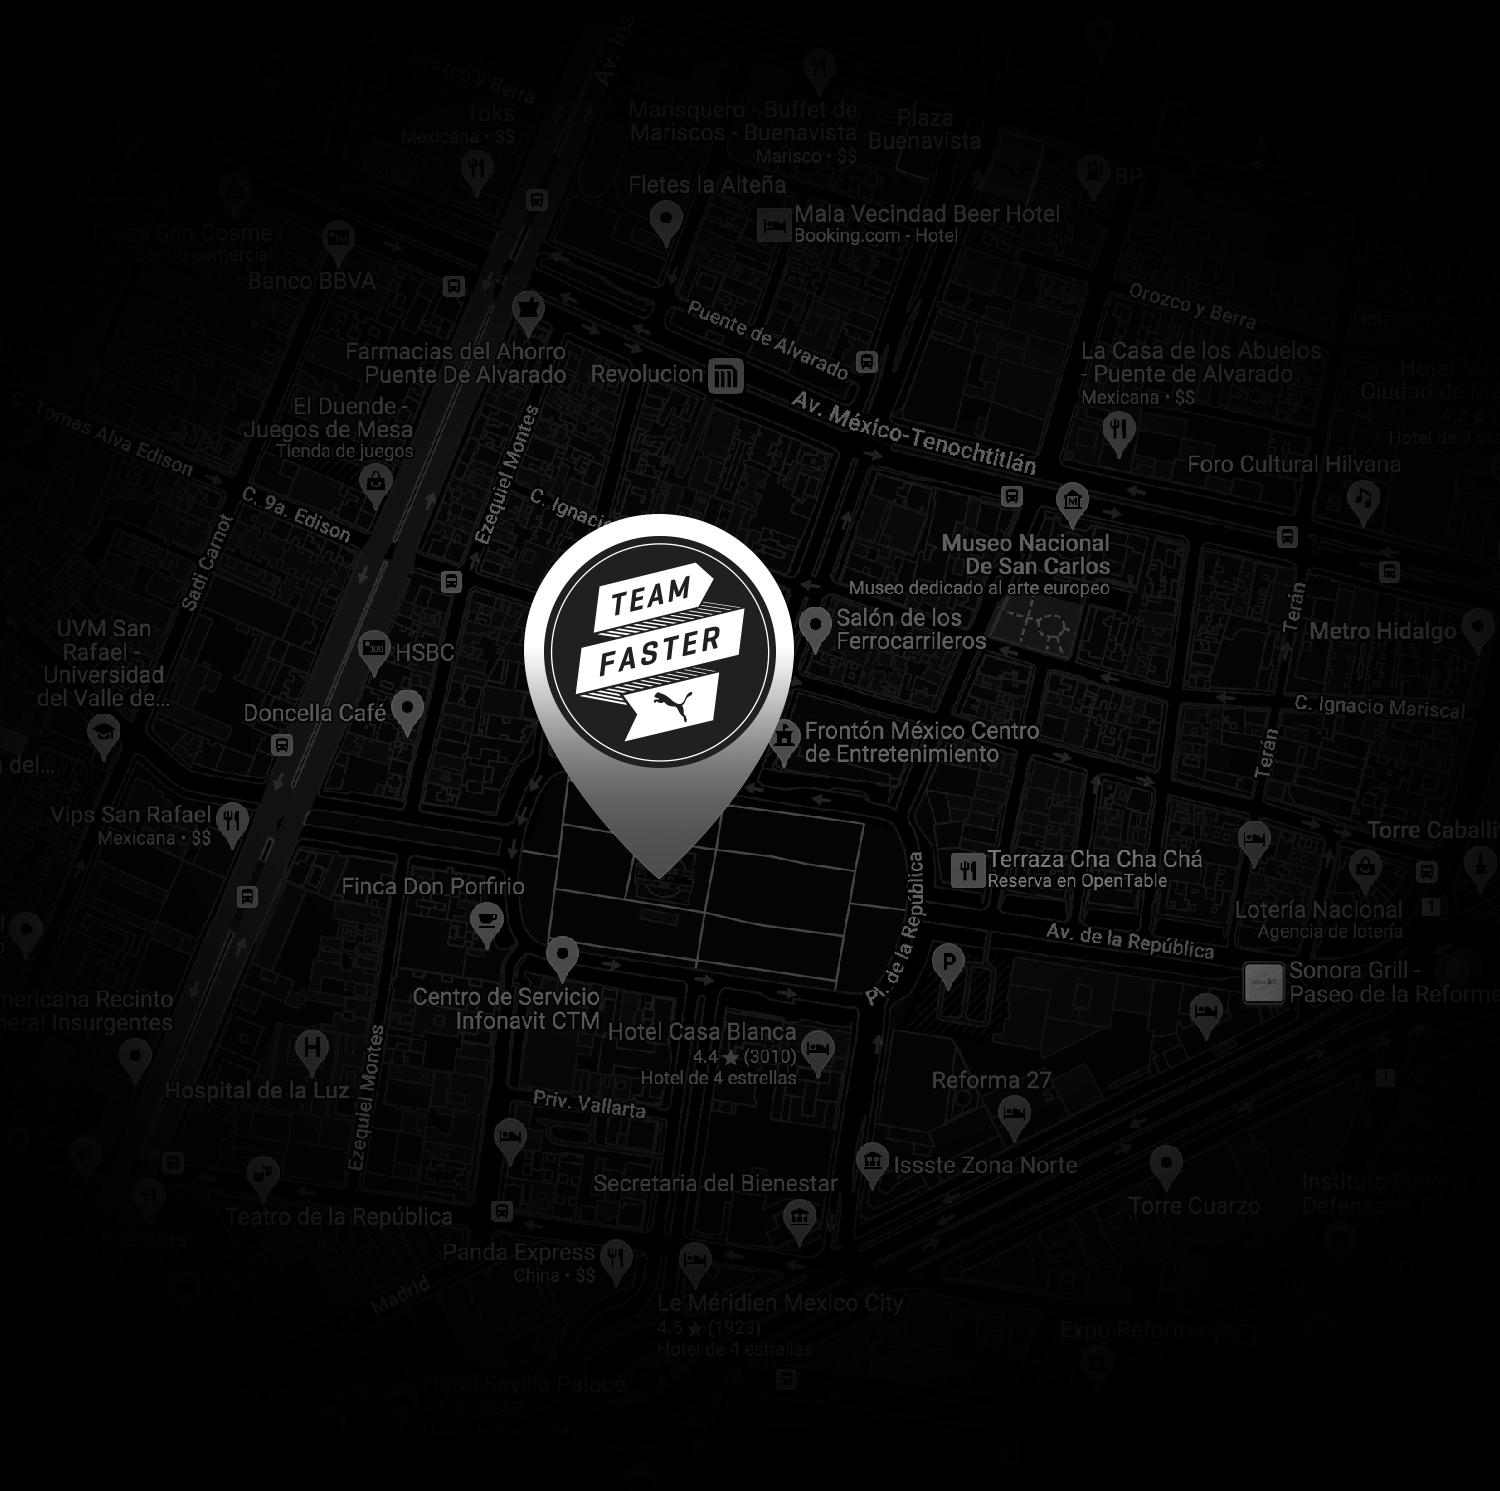
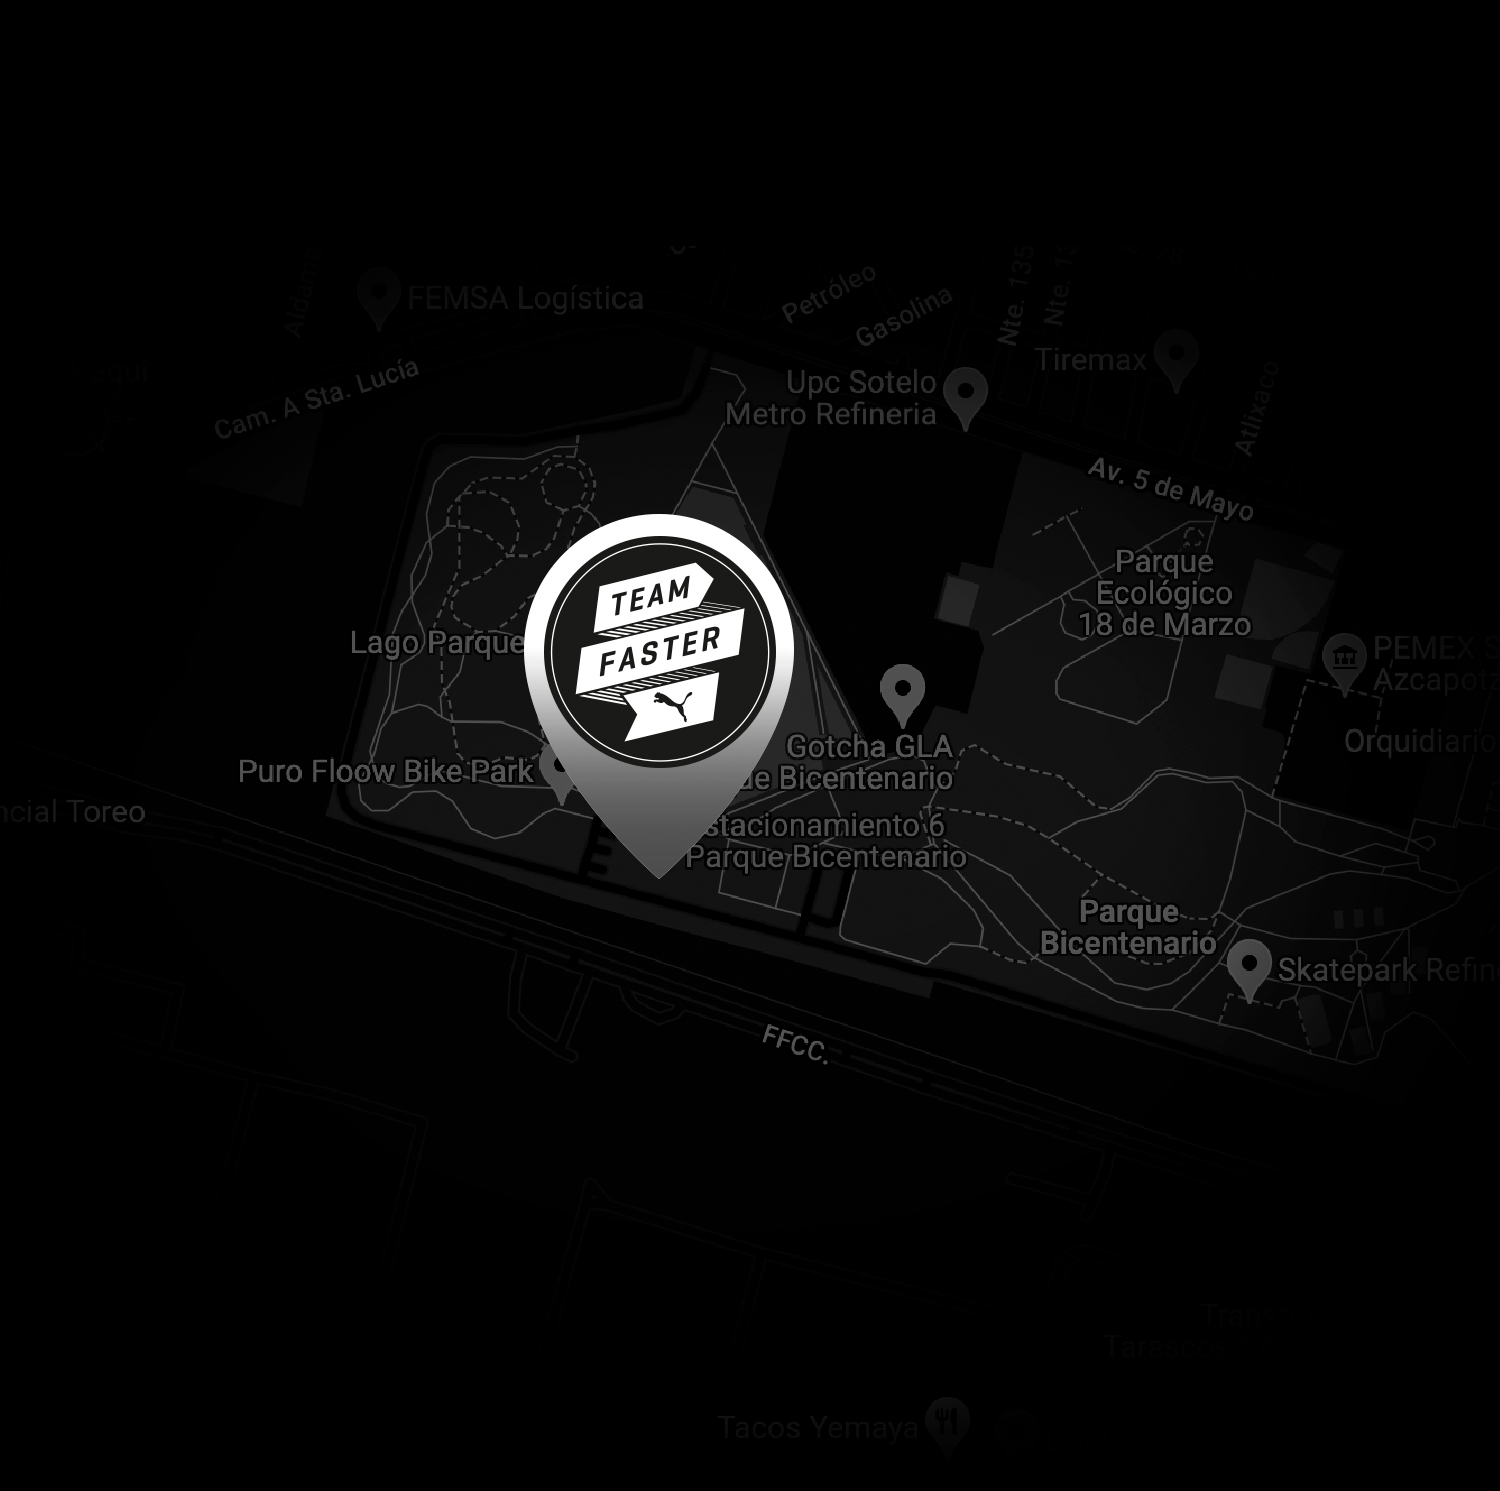
new venue

diff --git a/public/js/resources_js_Pages_Venues_vue.js b/public/js/resources_js_Pages_Venues_vue.js
@@ -68,7 +68,7 @@ __webpack_require__.r(__webpack_exports__);
 /* harmony default export */ const __WEBPACK_DEFAULT_EXPORT__ = ({
   name: 'footer',
   mounted: function mounted() {
-    console.log("v=1.1.27");
+    console.log("v=1.1.28");
   }
 });
 
@@ -226,7 +226,7 @@ __webpack_require__.r(__webpack_exports__);
   mounted: function mounted() {
     var _this = this;
 
-    console.log("v=1.1.27");
+    console.log("v=1.1.28");
     window.scrollTo(0, 0);
     axios.get('api/venues').then(function (_ref) {
       var data = _ref.data;
@@ -235,7 +235,7 @@ __webpack_require__.r(__webpack_exports__);
   },
   methods: {
     handleGoTo: function handleGoTo(slug) {
-      this.$router.push('/registro/' + slug);
+      if (slug == 'Revolucion') this.$router.push('/registro/ParqueBicentenario');else this.$router.push('/registro/' + slug);
     },
     setElement: function setElement(el) {
       this.gsap.to(el, {

diff --git a/public/js/resources_js_Pages_Registro_vue.js b/public/js/resources_js_Pages_Registro_vue.js
@@ -68,7 +68,7 @@ __webpack_require__.r(__webpack_exports__);
 /* harmony default export */ const __WEBPACK_DEFAULT_EXPORT__ = ({
   name: 'footer',
   mounted: function mounted() {
-    console.log("v=1.1.27");
+    console.log("v=1.1.28");
   }
 });
 
@@ -863,11 +863,13 @@ __webpack_require__.r(__webpack_exports__);
   mounted: function mounted() {
     var _this = this;
 
-    console.log("v=1.1.27");
+    var slug = this.$route.params.slug;
+    if (slug == 'ParqueBicentenario') slug = 'Revolucion';
+    console.log("v=1.1.28");
     window.scrollTo(0, 0);
     this.setElement(this.$refs.img1);
     this.setElement(this.$refs.img2);
-    axios.get('/api/workout/' + this.$route.params.slug).then(function (_ref) {
+    axios.get('/api/workout/' + slug).then(function (_ref) {
       var data = _ref.data.data;
       _this.venueId = data.venue.id;
       _this.info = Object.assign({}, {

diff --git a/public/js/resources_js_Pages_Galeria_vue.js b/public/js/resources_js_Pages_Galeria_vue.js
@@ -68,7 +68,7 @@ __webpack_require__.r(__webpack_exports__);
 /* harmony default export */ const __WEBPACK_DEFAULT_EXPORT__ = ({
   name: 'footer',
   mounted: function mounted() {
-    console.log("v=1.1.27");
+    console.log("v=1.1.28");
   }
 });
 
@@ -232,6 +232,8 @@ __webpack_require__.r(__webpack_exports__);
 //
 //
 //
+//
+//
 
 
 
@@ -260,7 +262,7 @@ __webpack_require__.r(__webpack_exports__);
   mounted: function mounted() {
     var _this = this;
 
-    console.log("v=1.1.27");
+    console.log("v=1.1.28");
     axios.get('api/galeries').then(function (_ref) {
       var data = _ref.data;
       _this.galery = [].concat(data.data);

diff --git a/resources/js/Pages/Registro.vue b/resources/js/Pages/Registro.vue
@@ -94,12 +94,14 @@ export default {
       };
     },
     mounted() {
-       console.log( "v=1.1.28" );
+      let slug = this.$route.params.slug;
+      if(slug== 'ParqueBicentenario') slug='Revolucion';
+       console.log( "v=1.1.29" );
        window.scrollTo(0, 0);
        this.setElement(this.$refs.img1);
        this.setElement(this.$refs.img2);
          axios
-             .get('/api/workout/'+this.$route.params.slug)
+             .get('/api/workout/'+slug)
              .then(({ data: { data } }) => {
                  this.venueId = data.venue.id;
                  this.info = Object.assign({}, {

diff --git a/public/js/resources_js_Pages_Post_vue.js b/public/js/resources_js_Pages_Post_vue.js
@@ -68,7 +68,7 @@ __webpack_require__.r(__webpack_exports__);
 /* harmony default export */ const __WEBPACK_DEFAULT_EXPORT__ = ({
   name: 'footer',
   mounted: function mounted() {
-    console.log("v=1.1.27");
+    console.log("v=1.1.28");
   }
 });
 
@@ -123,7 +123,7 @@ __webpack_require__.r(__webpack_exports__);
     return {};
   },
   mounted: function mounted() {
-    console.log("v=1.1.27");
+    console.log("v=1.1.28");
     axios.get('/api/blog/' + this.$route.params.slug).then(function (_ref) {
       var data = _ref.data;
       console.log(data);

diff --git a/public/js/resources_js_Pages_Blog_vue.js b/public/js/resources_js_Pages_Blog_vue.js
@@ -68,7 +68,7 @@ __webpack_require__.r(__webpack_exports__);
 /* harmony default export */ const __WEBPACK_DEFAULT_EXPORT__ = ({
   name: 'footer',
   mounted: function mounted() {
-    console.log("v=1.1.27");
+    console.log("v=1.1.28");
   }
 });
 
@@ -138,7 +138,7 @@ __webpack_require__.r(__webpack_exports__);
   mounted: function mounted() {
     var _this = this;
 
-    console.log("v=1.1.27");
+    console.log("v=1.1.28");
     axios.get('api/blog').then(function (_ref) {
       var data = _ref.data;
       console.log(data);

diff --git a/resources/js/Pages/Venues.vue b/resources/js/Pages/Venues.vue
@@ -139,7 +139,7 @@ export default {
         };
     },
     mounted() {
-      console.log( "v=1.1.28" );
+      console.log( "v=1.1.29" );
       window.scrollTo(0, 0);
 
         axios
@@ -150,7 +150,8 @@ export default {
     },
     methods:  {
         handleGoTo(slug){
-            this.$router.push('/registro/'+slug);
+          if(slug== 'Revolucion') this.$router.push('/registro/ParqueBicentenario');
+          else this.$router.push('/registro/'+slug);
         },
         setElement(el){
             this.gsap.to(

diff --git a/public/js/resources_js_Pages_Home_vue.js b/public/js/resources_js_Pages_Home_vue.js
@@ -68,7 +68,7 @@ __webpack_require__.r(__webpack_exports__);
 /* harmony default export */ const __WEBPACK_DEFAULT_EXPORT__ = ({
   name: 'footer',
   mounted: function mounted() {
-    console.log("v=1.1.27");
+    console.log("v=1.1.28");
   }
 });
 
@@ -640,7 +640,7 @@ __webpack_require__.r(__webpack_exports__);
   mounted: function mounted() {
     var _this = this;
 
-    console.log("v=1.1.27");
+    console.log("v=1.1.28");
     window.scrollTo(0, 0);
     this.setLogoInicio();
     this.setFondoInicio();

diff --git a/resources/js/Pages/Galeria.vue b/resources/js/Pages/Galeria.vue
@@ -84,6 +84,8 @@
         </div>
       </template>
 
+      <!-- Funciona con el servicio -->
+
       <template v-if="this.$route.params.venueId == 5 && galery.length">
 
           <div class="app-container">
@@ -460,7 +462,7 @@ export default {
     },
 
     mounted() {
-      console.log( "v=1.1.28" );
+      console.log( "v=1.1.29" );
 
         axios
             .get('api/galeries')

diff --git a/public/js/resources_js_Pages_Albums_vue.js b/public/js/resources_js_Pages_Albums_vue.js
@@ -68,7 +68,7 @@ __webpack_require__.r(__webpack_exports__);
 /* harmony default export */ const __WEBPACK_DEFAULT_EXPORT__ = ({
   name: 'footer',
   mounted: function mounted() {
-    console.log("v=1.1.27");
+    console.log("v=1.1.28");
   }
 });
 

diff --git a/public/js/resources_js_Pages_Coaches_vue.js b/public/js/resources_js_Pages_Coaches_vue.js
@@ -68,7 +68,7 @@ __webpack_require__.r(__webpack_exports__);
 /* harmony default export */ const __WEBPACK_DEFAULT_EXPORT__ = ({
   name: 'footer',
   mounted: function mounted() {
-    console.log("v=1.1.27");
+    console.log("v=1.1.28");
   }
 });
 

diff --git a/resources/js/Pages/Post.vue b/resources/js/Pages/Post.vue
@@ -39,7 +39,7 @@ export default {
        };
     },
     mounted() {
-        console.log( "v=1.1.28" );
+        console.log( "v=1.1.29" );
         axios
             .get('/api/blog/'+this.$route.params.slug)
             .then(({ data }) => {
